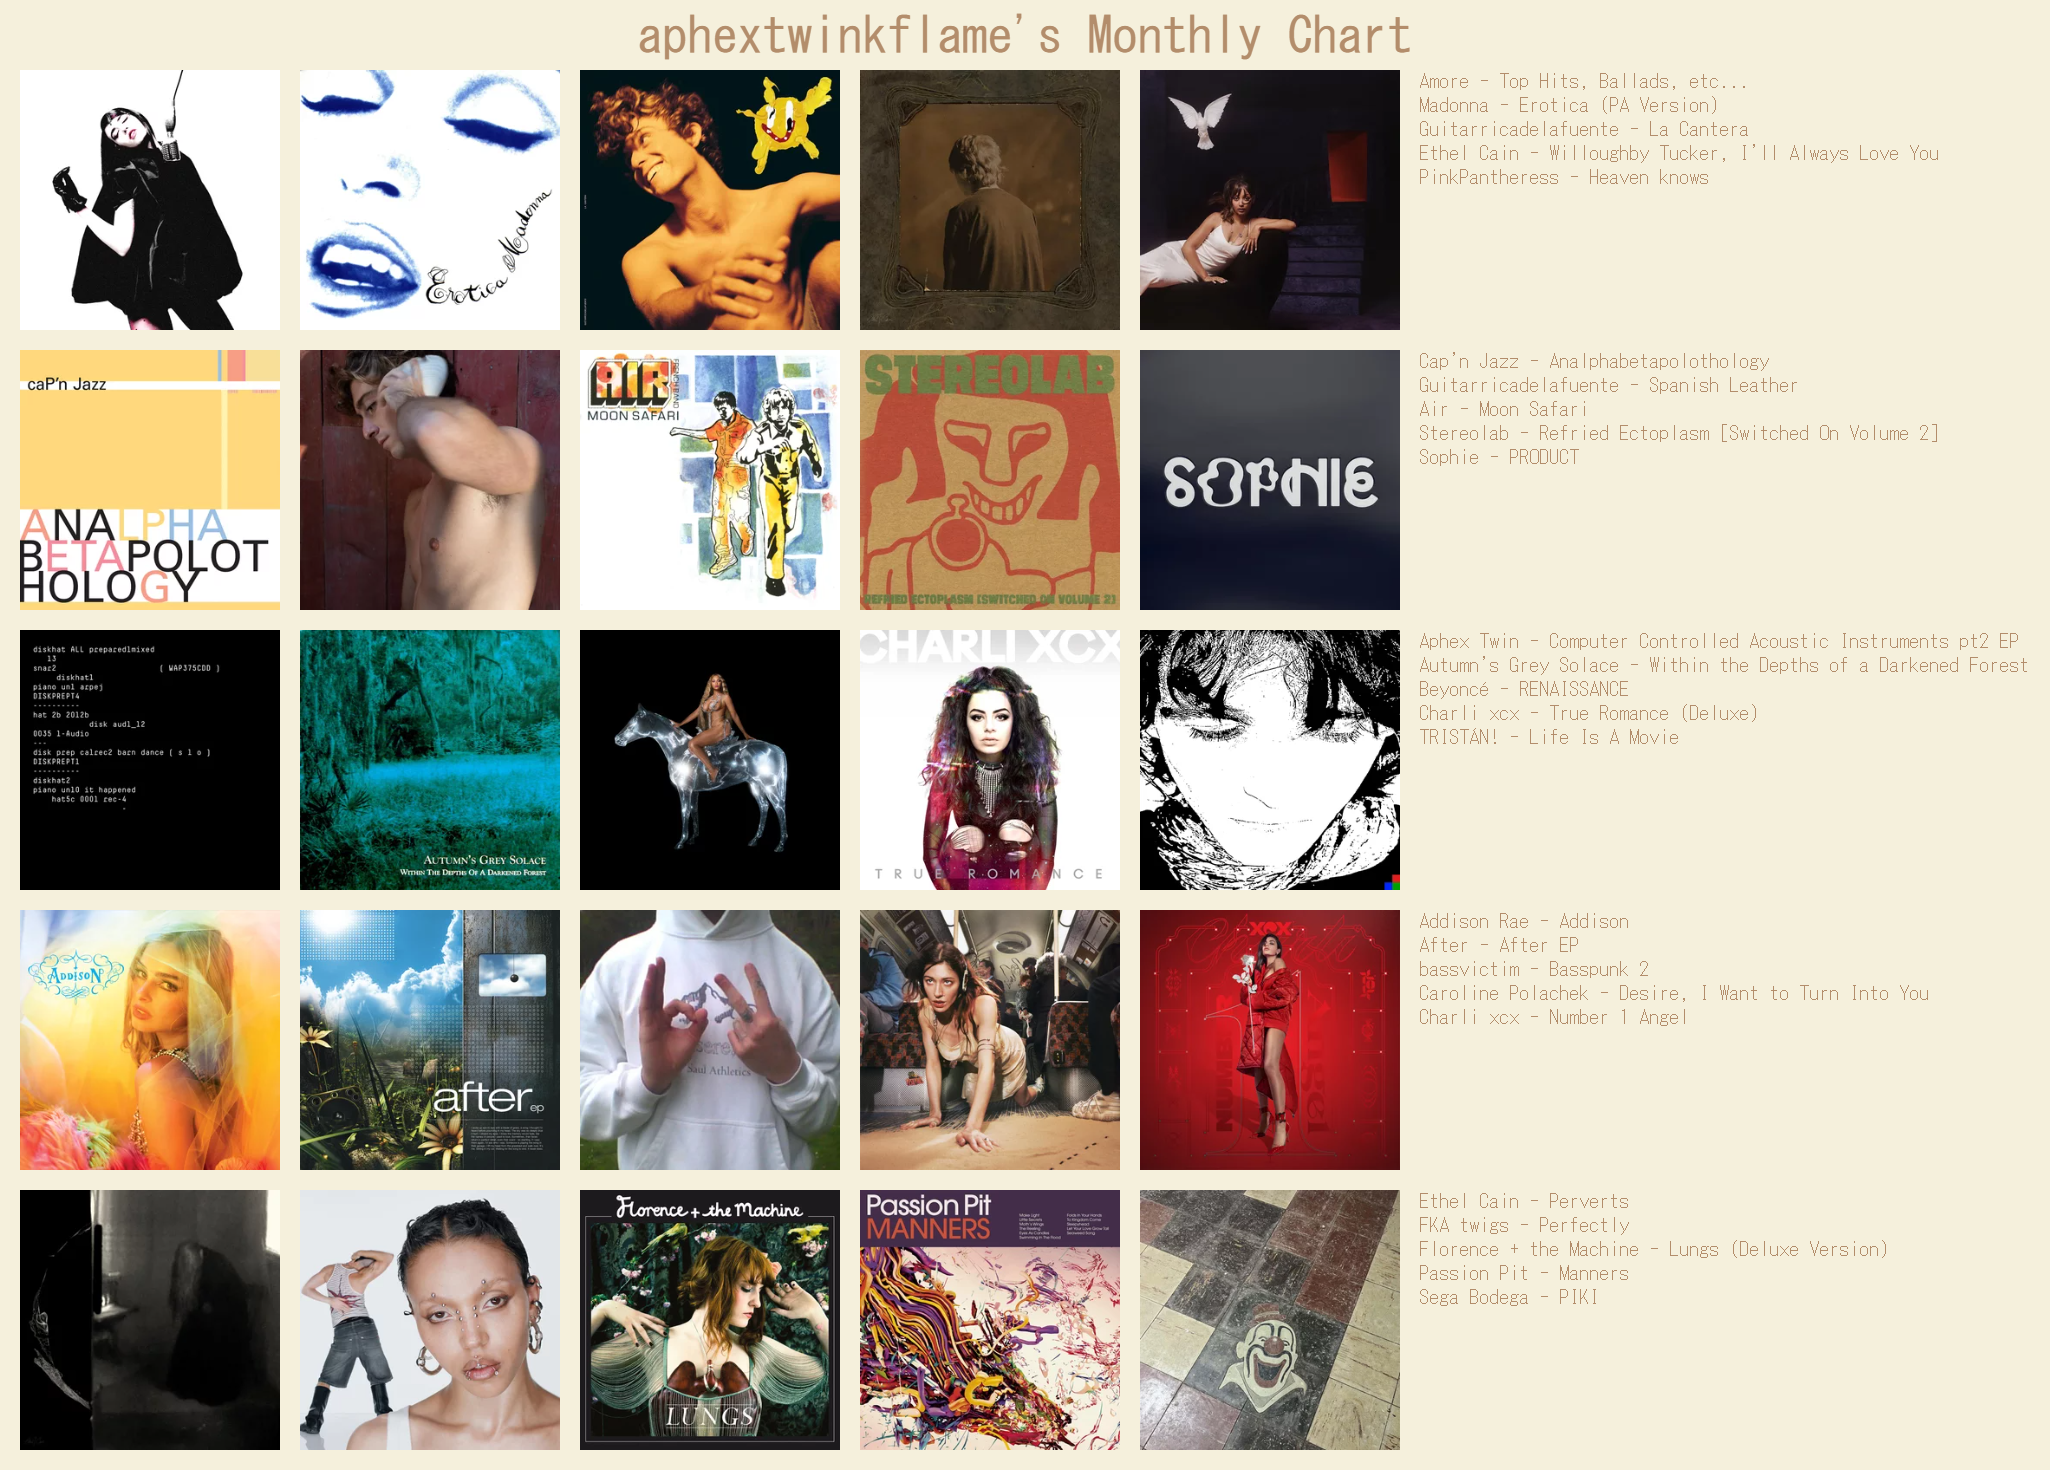
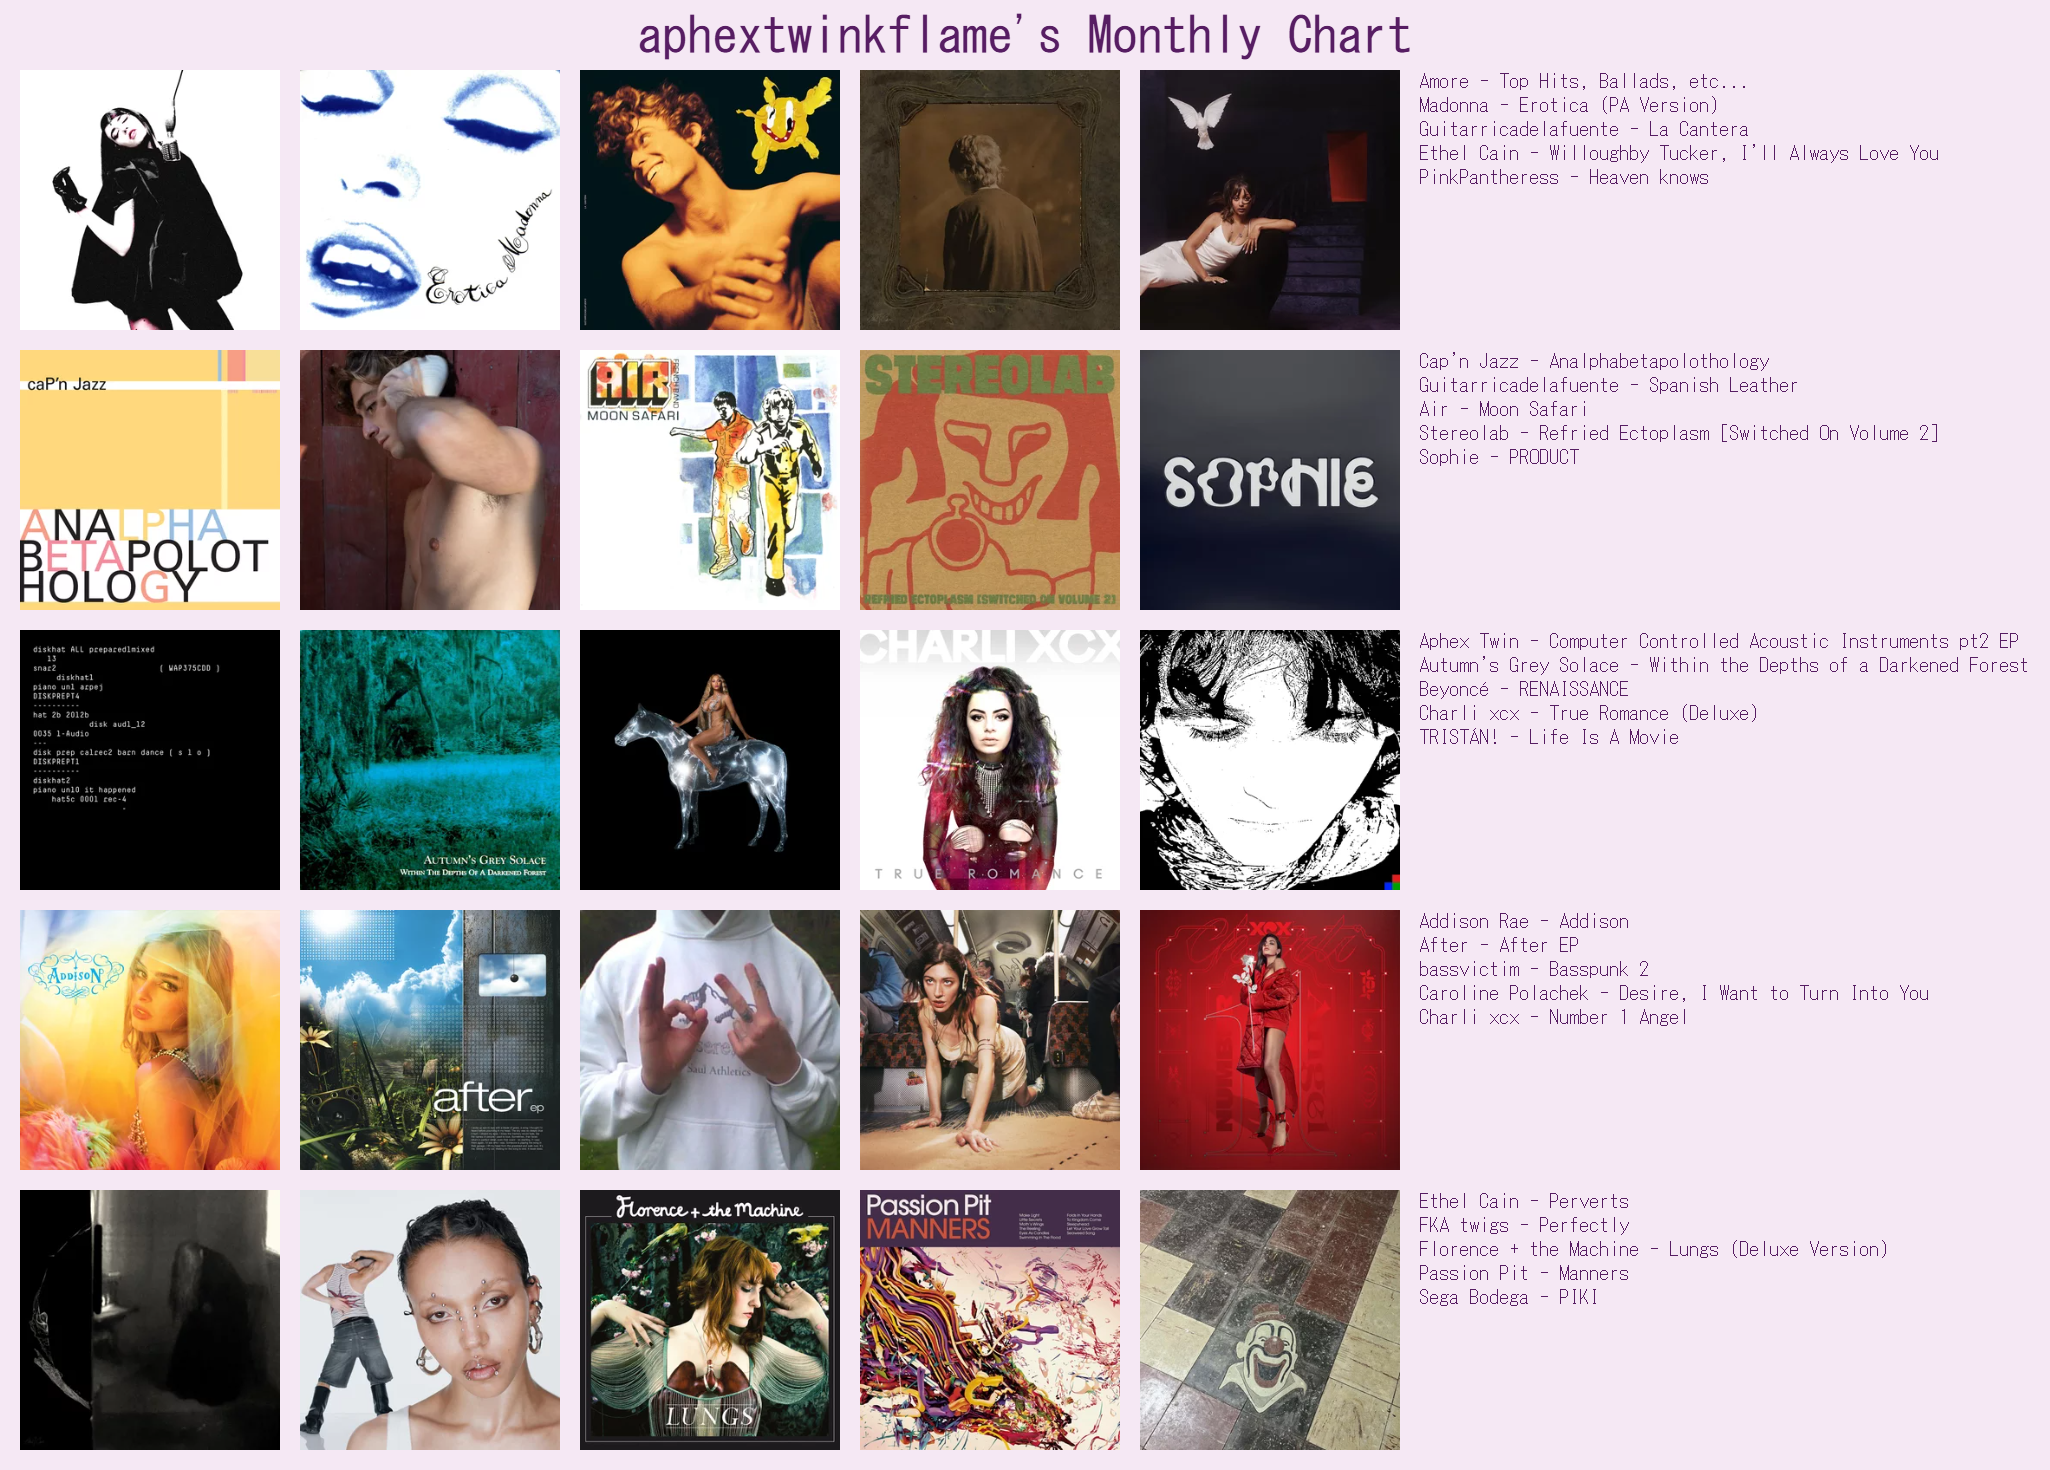
layout changes + guestbook

diff --git a/about.html b/about.html
@@ -13,7 +13,7 @@
                 <section>
                     <h1>About me!</h1>
                     <div>
-                        <img src="images/about/namecard.png" class="wrap-image-left" style="width: 300px; rotate: -5deg;">
+                        <img src="images/about/namecard2.png" class="wrap-image-left" style="width: 300px; rotate: -5deg;">
                         <h3>Who am I...?</h3>
                         <p>Hello! I&#39;m Adri&aacute;n, and I&#39;m a 17 y/o student from Spain.</p>
                         <p>I love art as much as I love science so this site is really a collection of everything I like.
@@ -61,24 +61,24 @@
                 <section>
                     <h1>Links!</h1>
                     <div class="row">
-                        <a href="https://www.instagram.com/apendikittys/" class="contact-list_element">
+                        <a href="https://www.instagram.com/apendikittys/" target="_blank" class="contact-list_element">
                         <img src="images/about/instagram.png">
                         </a>
-                        <a href="https://x.com/apendikittys" class="contact-list_element">
+                        <a href="https://x.com/apendikittys" target="_blank" class="contact-list_element">
                         <img src="images/about/twitter.png">
                         </a>
-                        <a href="https://apendikitties.tumblr.com/" class="contact-list_element">
+                        <a href="https://apendikitties.tumblr.com/" target="_blank" class="contact-list_element">
                         <img src="images/about/tumblr.png">
                         </a>
-                        <a href="https://letterboxd.com/apendikittys/" class="contact-list_element">
+                        <a href="https://letterboxd.com/apendikittys/" target="_blank" class="contact-list_element">
                         <img src="images/about/letterboxd.png">
                         </a>
                         <!--
-                        <a href="https://archiveofourown.org/users/thoughtboy" class="contact-list element">
+                        <a href="https://archiveofourown.org/users/thoughtboy" target="_blank" class="contact-list element">
                         <img src="images/about/ao3.png">
                         </a>
                         -->
-                        <a href="https://github.com/0omycetes" class="contact-list_element">
+                        <a href="https://github.com/0omycetes" target="_blank" class="contact-list_element">
                         <img src="images/about/github.png">
                         </a>
                     </div>

diff --git a/css/style.css b/css/style.css
@@ -6,10 +6,10 @@
 }
 
 body {
-    background-image: url("../images/yellow.jpg");
+    background-image: url("../images/stars.gif");
     background-repeat: repeat;
     font-size: 16px;
-    color: #b38d6b;
+    color: #571D63;
     text-align: justify;
 }
 
@@ -28,18 +28,19 @@ p, li {
 }
 
 a {
-    color: #74a545;
+    color: #005322;
 }
 
 a:hover {
-    color: #8ad955;
+    color: #19A453;
 }
 
 ul {
-    background-color: #ede2d1;
-    border: 2px #b38d6b dashed;
+    background-color: #EACAEE;
+    border: 2px #571D63 dashed;
     border-radius: 15px;
     padding: 10px 20px 10px 40px;
+    color: #2C0036;
 }
 
 .header {
@@ -65,12 +66,9 @@ ul {
     grid-template-columns: 230px 840px;
     gap: 4px;
     padding: 4px;
-    border-width: 7px;
-    border-style: solid;
-    border-image: url("https://foollovers.com/mat/baf/food/fo32-008-a.gif") 7 round;
     width: 1080px;
     margin: 0 auto;
-    background-color: #ffffff;
+    background-color: #50488B;
 }
 
 .wrapper > .marquee {
@@ -80,7 +78,7 @@ ul {
[1 lines of base64/hex data omitted]
     border-width:  7px;
     border-style:  solid;
-    background-color: #f5f0dc;
+    background-color: #F5E8F4;
 
     marquee {
         width: 1050px;
@@ -97,7 +95,7 @@ ul {
     border-width:  7px;
     border-style:  solid;
     padding: 20px;
-    background-color: #f5f0dc;
+    background-color: #F5E8F4;
 }
 
 .wrapper > .main {
@@ -106,7 +104,7 @@ ul {
     border-width:  7px;
     border-style:  solid;
     padding: 20px;
-    background-color: #f5f0dc;
+    background-color: #F5E8F4;
 }
 
 section, article {
@@ -157,10 +155,11 @@ section, article {
 
 .callout {
     display: block;
-    background-color: #ede2d1;
+    background-color: #EACAEE;
     border-radius: 10px;
     padding: 10px;
     width: fit-content;
+    color: #2C0036;
 }
 
 .gallery {
@@ -233,7 +232,7 @@ section, article {
     padding: 20px;
     box-sizing: border-box;
     background: rgba(0, 0, 0, 0.4);
-    color: #fff;
+    color: #ffffff;
     overflow: auto;
     text-align: left;
 }

diff --git a/music.html b/music.html
@@ -12,8 +12,8 @@
             <div class="main">
                 <h1>Music</h1>
                 <p>As I have said on my <a href="about.html">about page</a>, I enjoy listening to music as much as making it.
-                    You can check out my <a href="https://www.last.fm/user/aphextwinkflame">last.fm</a> and <a href="https://soundcloud.com/apendikittys">soundcloud</a> if you're interested.
-                    And check out my <a href="https://open.spotify.com/user/ylcvgmseh0fhrguijfcsbp7w2">playlists!</a>
+                    You can check out my <a href="https://www.last.fm/user/aphextwinkflame" target="_blank">last.fm</a> and <a href="https://soundcloud.com/apendikittys" target="_blank">soundcloud</a> if you're interested.
+                    And check out my <a href="https://open.spotify.com/user/ylcvgmseh0fhrguijfcsbp7w2" target="_blank">playlists!</a>
                 </p>
                 <section>
                     <p>Here's what I listened to last month!</p>

diff --git a/games.html b/games.html
@@ -41,8 +41,8 @@
                     </div>
                     <h2>Reviews</h2>
                     <div class="gallery">
-                        <div class="gallery-card" data-title="Mysterious Skin" data-year="2004" data-director="Gregg Araki" data-rating="&#9733;&#9733;&#9733;&#9733;&#9733;" data-review="My traumatizing comfort movie. saaaaaaaaaaaaa aaaaaaaaaaaaaaaa aaaaaaaaaaaaaaaaaaa aaaaaaaaaa aaaaaaaaa">
-                            <img src="images/media/mysterious_skin.png" alt="Mysterious Skin Poster">
+                        <div class="gallery-card" data-title="The Legen of Zelda: Breath of the Wild" data-year="2017" data-director="Eiji Aonuma" data-rating="&#9733;&#9733;&#9733;&#9733;&#9733;" data-review="">
+                            <img src="images/games/The_Legend_of_Zelda_Breath_of_the_Wild.jpg" alt="BOTW Poster">
                         </div>
                         <div id="review-overlay">
                             <div id="review-content">

diff --git a/sitemap.html b/sitemap.html
@@ -23,7 +23,7 @@
                                     <li><a href="./zelda.html">The Legend of Zelda</a></li>
                                 </ul>
                             </li>
-                            <li><a href="./guestbook.html">Guestbook</a></li>
+                            <li><a href="https://adri.atabook.org/" target="_blank">Guestbook</a></li>
                             <li><a href="./media.html">Media</a></li>
                             <li><a href="./music.html">Music</a></li>
                             <li><a href="./roma.html">Roma</a></li>

diff --git a/index.html b/index.html
@@ -54,7 +54,7 @@
             <img src="images/index/controller.png" alt="Game controller">
             <span>Games</span>
         </a>
-        <a href="guestbook.html" class="interactive-link guestbook-link">
+        <a href="https://adri.atabook.org/" target="_blank" class="interactive-link guestbook-link">
             <div class="guestbook-images">
                 <img src="images/index/letter-closed.png" alt="Closed letter">
                 <img src="images/index/letter-open.png" alt="Open letter">

diff --git a/sidebar.html b/sidebar.html
@@ -8,7 +8,7 @@
       <li><a href="./blog.html">Blog</a></li>
       <li><a href="./crochet.html">Crochet</a></li>
       <li><a href="./games.html">Games</a></li>
-      <li><a href="./guestbook.html">Guestbook</a></li>
+      <li><a href="https://adri.atabook.org/" target="_blank">Guestbook</a></li>
       <li><a href="./media.html">Media</a></li>
       <li><a href="./music.html">Music</a></li>
       <li><a href="./roma.html">Roma</a></li>

diff --git a/marquee.html b/marquee.html
@@ -9,5 +9,7 @@
         <img src="images/buttons/gay_music.gif">
         <img src="images/buttons/ao3button.gif">
         <img src="images/buttons/graphic_design.gif">
+        <img src="images/buttons/visualstudio.png">
+        <img src="images/buttons/nutdealer-gaybot.png">
     </marquee>
 </div>

diff --git a/header.html b/header.html
@@ -1,3 +1,3 @@
 <div class="header">
-  <img src="images/header.png">
+  <img src="images/header.gif">
 </div>
